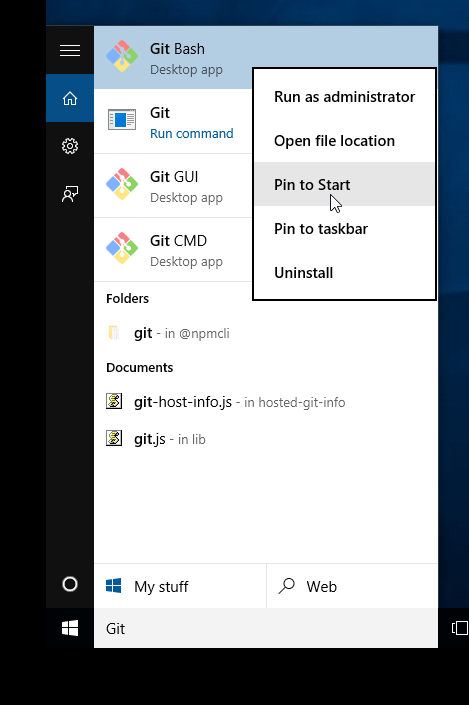
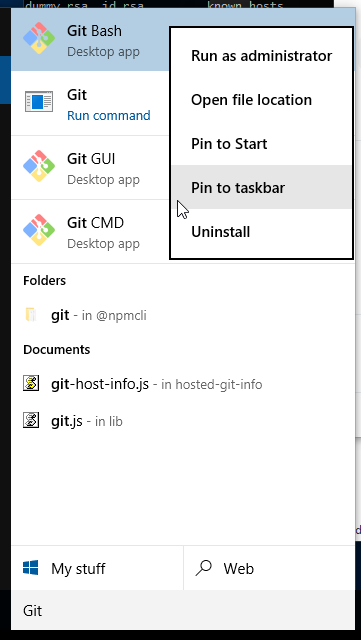
Fixes

diff --git a/windows-setup-instructions.md b/windows-setup-instructions.md
@@ -22,11 +22,11 @@ There are 5 steps in this guide:
 
    1. **Select defaults for all options during the installation**.
 
-   2. When the installation is complete, press the `<Windows>` key and type `git` into the search to find the `git bash` app
+   2. When the installation is complete, press the `<Windows>` key and type `git` into the search box to find the `git bash` app
 
       ![Find git bash](images/find-git-bash.png)
 
-   3. Right click on the `git bash` app and click `Pin this program to the taskbar` so you can start it quickly.
+   3. Right click on the `git bash` app and click `Pin to taskbar` so you can start it quickly from the Taskbar.
 
       ![Pin git bash](images/pin-git-bash.png)
 
@@ -46,14 +46,14 @@ There are 5 steps in this guide:
 
       1. At the `$` prompt in the new window, type `git --version` and then `<Enter>` to check `git` is correctly installed. You should see something like the following text displayed:
 
-      ```text
-      git version 2.35.1.windows.1
+         ```text
+         git version 2.35.1.windows.1
 
-      user@PC-NAME MINGW ~
-      $
-      ```
+         user@PC-NAME MINGW ~
+         $
+         ```
 
-      1. Finally type `exit` and then `<Enter>` to close the window.
+      2. Finally type `exit` and then `<Enter>` to close the window.
 
 ## 2. Install VSCode
 
@@ -83,15 +83,16 @@ We will use a tool called `nvm` to install NodeJS - [Link to GitHub Repository](
 
    ```
 
-3. Install the latest version of NodeJS
+3. Once the above completes, close the current `git bash` window and open a new one before you continue.
+4. Install the latest version of NodeJS
 
    `nvm install node`
 
-4. Restart terminal and run the final command.
+5. Restart terminal and run the final command.
 
    `nvm use node`
 
-5. Confirm that you are using the latest version of Node and npm.
+6. Confirm that you are using the latest version of Node and npm.
 
    `node -v && npm -v`
 
